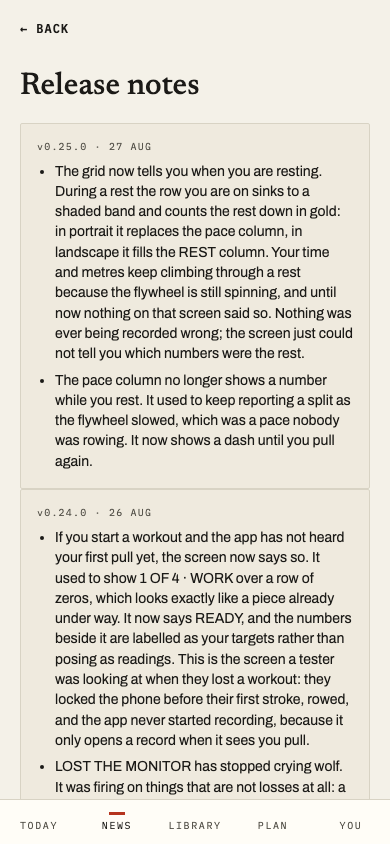
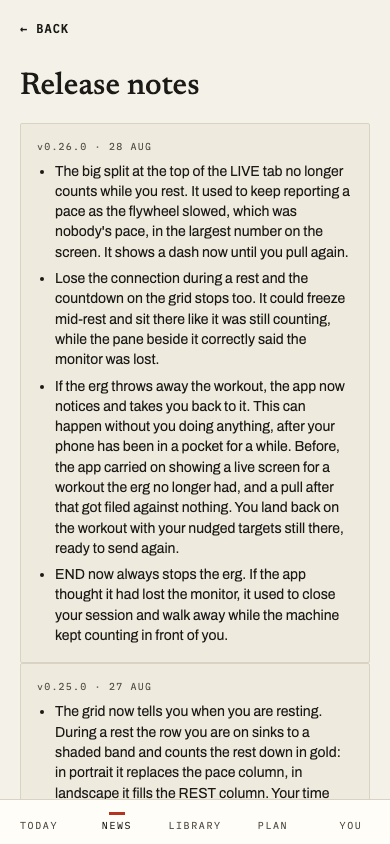
docs(news): v0.26.0 release notes, in this PR rather than a separate one
Range v0.25.0..main is 7 merges. #206 (RC-27) and #212 (RC-33) are items 1
and 2; #206 is the one this range OWED, having merged after v0.25.0's own
notes PR. #211 is RC-37 (item 3) plus the End fix (item 4).
#207/#208/#209/#210 are captures, a spec, ledgers and an audit -- nothing a
tester receives.

Item 3 is deliberately NOT about pressing Menu. James's report was a Menu
press and he called it rare; the 2026-08-28 walk produced the same wire
signature with no Menu press at all, after a 67s background. The note is
written for the case that costs a session.

NOT written, deliberately: the pre-row lock is still unfixed. The walk
reproduced it and item 3 only helps once the machine has ALSO dropped the
program. Promising more would be the over-claim v0.24.0's correction exists
to stop.

All four version pins bumped, and the ordered-version chain regenerated from
RELEASE_NOTES rather than hand-shifted -- the failure that reddened #205.

Claude-Session: https://claude.ai/code/session_01UEXqdgDid4Qjd8D5uoRZ3H

Changed region(s): [[0.0923, 0.1848, 0.9231, 0.955]]

diff --git a/app/e2e/news.spec.ts b/app/e2e/news.spec.ts
@@ -104,7 +104,7 @@ test("News at rest: 7 UNREAD, three pinned rows, four latest rows, WHAT'S NEW sh
 
   await expect(page.getByRole("heading", { name: "WHAT'S NEW" })).toBeVisible();
   await expect(page.locator(".news-release-version").first()).toContainText(
-    "v0.25.0",
+    "v0.26.0",
   );
 });
 
@@ -183,31 +183,32 @@ test("/news/releases lists every version, newest first", async ({ page }) => {
   // deliberately fails here — that is this pin's job, and it is why the
   // title no longer names a number that goes stale every tag.
   const versions = page.locator(".news-release-version");
-  await expect(versions).toHaveCount(24);
-  await expect(versions.nth(0)).toContainText("v0.25.0");
-  await expect(versions.nth(1)).toContainText("v0.24.0");
-  await expect(versions.nth(2)).toContainText("v0.23.0");
-  await expect(versions.nth(3)).toContainText("v0.22.0");
-  await expect(versions.nth(4)).toContainText("v0.21.0");
-  await expect(versions.nth(5)).toContainText("v0.20.0");
-  await expect(versions.nth(6)).toContainText("v0.19.1");
-  await expect(versions.nth(7)).toContainText("v0.19.0");
-  await expect(versions.nth(8)).toContainText("v0.18.1");
-  await expect(versions.nth(9)).toContainText("v0.18.0");
-  await expect(versions.nth(10)).toContainText("v0.17.0");
-  await expect(versions.nth(11)).toContainText("v0.16.0");
-  await expect(versions.nth(12)).toContainText("v0.15.0");
-  await expect(versions.nth(13)).toContainText("v0.14.0");
-  await expect(versions.nth(14)).toContainText("v0.13.0");
-  await expect(versions.nth(15)).toContainText("v0.12.0");
-  await expect(versions.nth(16)).toContainText("v0.11.0");
-  await expect(versions.nth(17)).toContainText("v0.10.0");
-  await expect(versions.nth(18)).toContainText("v0.9.0");
-  await expect(versions.nth(19)).toContainText("v0.8.0");
-  await expect(versions.nth(20)).toContainText("v0.7.0");
-  await expect(versions.nth(21)).toContainText("v0.5.1");
-  await expect(versions.nth(22)).toContainText("v0.5.0");
-  await expect(versions.nth(23)).toContainText("v0.4.0");
+  await expect(versions).toHaveCount(25);
+  await expect(versions.nth(0)).toContainText("v0.26.0");
+  await expect(versions.nth(1)).toContainText("v0.25.0");
+  await expect(versions.nth(2)).toContainText("v0.24.0");
+  await expect(versions.nth(3)).toContainText("v0.23.0");
+  await expect(versions.nth(4)).toContainText("v0.22.0");
+  await expect(versions.nth(5)).toContainText("v0.21.0");
+  await expect(versions.nth(6)).toContainText("v0.20.0");
+  await expect(versions.nth(7)).toContainText("v0.19.1");
+  await expect(versions.nth(8)).toContainText("v0.19.0");
+  await expect(versions.nth(9)).toContainText("v0.18.1");
+  await expect(versions.nth(10)).toContainText("v0.18.0");
+  await expect(versions.nth(11)).toContainText("v0.17.0");
+  await expect(versions.nth(12)).toContainText("v0.16.0");
+  await expect(versions.nth(13)).toContainText("v0.15.0");
+  await expect(versions.nth(14)).toContainText("v0.14.0");
+  await expect(versions.nth(15)).toContainText("v0.13.0");
+  await expect(versions.nth(16)).toContainText("v0.12.0");
+  await expect(versions.nth(17)).toContainText("v0.11.0");
+  await expect(versions.nth(18)).toContainText("v0.10.0");
+  await expect(versions.nth(19)).toContainText("v0.9.0");
+  await expect(versions.nth(20)).toContainText("v0.8.0");
+  await expect(versions.nth(21)).toContainText("v0.7.0");
+  await expect(versions.nth(22)).toContainText("v0.5.1");
+  await expect(versions.nth(23)).toContainText("v0.5.0");
+  await expect(versions.nth(24)).toContainText("v0.4.0");
 });
 
 test("item 1 / round 4: opening an article from a scrolled News feed lands the reader at the top of its OWN scroller, and ← BACK now restores News's own scroll position (CL item: News scroll memory)", async ({

diff --git a/app/src/news/content/releaseNotes.ts b/app/src/news/content/releaseNotes.ts
@@ -5,6 +5,36 @@ import type { ReleaseNote } from "./types";
 // would notice, and internal-only releases are skipped.
 export const RELEASE_NOTES: ReleaseNote[] = [
   {
+    // v0.26.0 (2026-08-28): range v0.25.0..main = 7 merges, each accounted
+    // per RF15. #206 (RC-27) and #212 (RC-33) are items 1 and 2 — #206 is
+    // the one this range OWED, having merged AFTER v0.25.0's own notes PR.
+    // #211 is RC-37, item 3, plus the End fix in item 4. #207/#208/#209/#210
+    // are captures, a spec, ledgers and an audit — nothing a tester receives.
+    //
+    // ITEM 3 IS DELIBERATELY NOT ABOUT PRESSING MENU. James's own report was
+    // a Menu press and he called it "rare and not that annoying". The
+    // 2026-08-28 walk then produced the SAME wire signature with no Menu
+    // press at all, after a 67 s background — the machine dropped the
+    // program by itself. The note is written for that case, because that is
+    // the one that costs a session, and a note about a menu button would
+    // teach a tester the wrong shape.
+    //
+    // NOT WRITTEN, deliberately: the pre-row lock is still not fixed. The
+    // walk reproduced it (phone locked before the first pull, machine 24.7 s
+    // and 52.6 m in, app still holding READY with no record). Item 3 helps
+    // only once the machine has ALSO dropped the program. Promising more
+    // than that would be the over-claim v0.24.0's own correction exists to
+    // stop, so the notes stay silent and the ROADMAP carries the gap.
+    version: "v0.26.0",
+    date: "2026-08-28",
+    items: [
+      "The big split at the top of the LIVE tab no longer counts while you rest. It used to keep reporting a pace as the flywheel slowed, which was nobody's pace, in the largest number on the screen. It shows a dash now until you pull again.",
+      "Lose the connection during a rest and the countdown on the grid stops too. It could freeze mid-rest and sit there like it was still counting, while the pane beside it correctly said the monitor was lost.",
+      "If the erg throws away the workout, the app now notices and takes you back to it. This can happen without you doing anything, after your phone has been in a pocket for a while. Before, the app carried on showing a live screen for a workout the erg no longer had, and a pull after that got filed against nothing. You land back on the workout with your nudged targets still there, ready to send again.",
+      "END now always stops the erg. If the app thought it had lost the monitor, it used to close your session and walk away while the machine kept counting in front of you.",
+    ],
+  },
+  {
     // v0.25.0 (2026-08-27): range v0.24.0..main = 2 merges, each accounted
     // per RF15. #204 (RC-24) is the whole entry. #203 (Phase UR, undefined
     // rest) is ROADMAP-only — 74 lines, one file, a phase filed and its

diff --git a/app/e2e/screenshots.spec.ts b/app/e2e/screenshots.spec.ts
@@ -1334,7 +1334,7 @@ test("releases", async ({ page }) => {
   // without bumping this pin, which broke `pnpm screenshots` on main
   // (caught 2026-08-23; e2e doesn't run this project, so nothing gated it).
   await expect(page.locator(".news-release-version").first()).toContainText(
-    "v0.25.0",
+    "v0.26.0",
   );
   await page.screenshot({
     path: path.join(SCREENSHOTS_DIR, "releases.png"),
